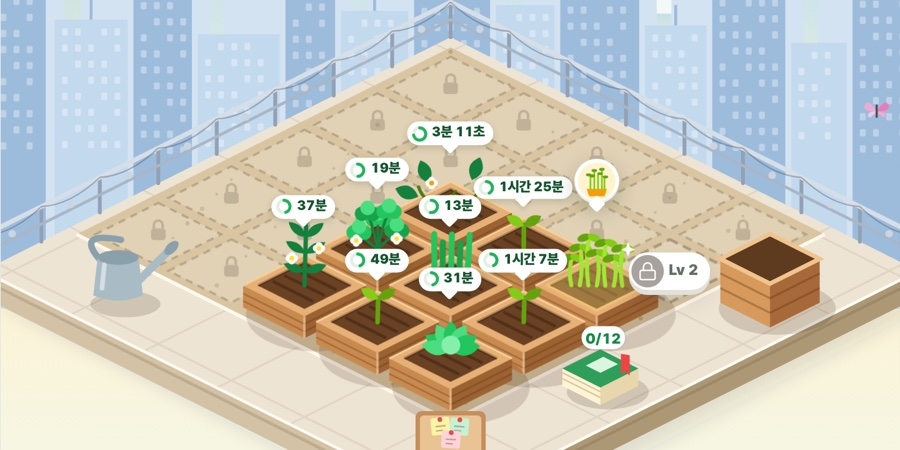
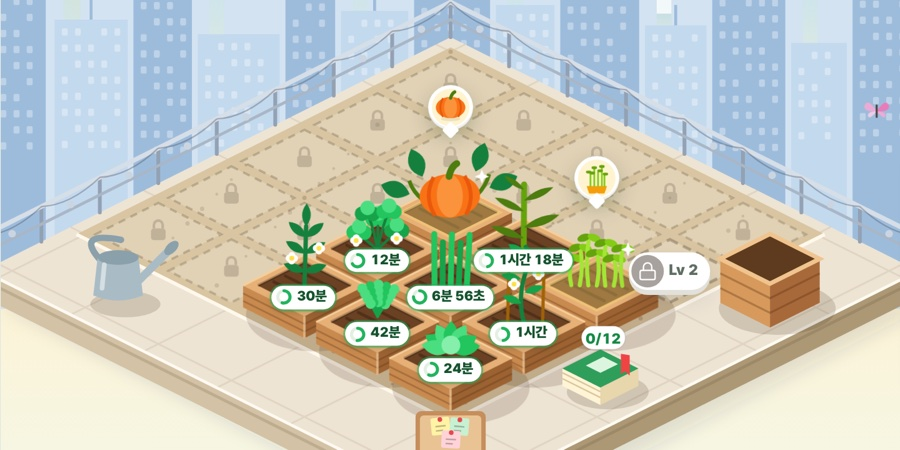
feat: 옥상 텃밭 남은 시간을 각 화단 흙 위에 겹쳐 표시(고리 + 시간 알약), 주문판 다리 짧게, 모두 심기 버튼 줄바꿈 막기, 공지 텃밭 그림 교체

Changed region(s): [[0.28, 0.1867, 0.6844, 0.7778], [0.4356, 0.7778, 0.56, 0.8711], [0.28, 0.4356, 0.3733, 0.4978]]

diff --git a/web/_shared/farm.js b/web/_shared/farm.js
@@ -413,11 +413,11 @@ window.HKFarm = (function () {
     const [x, y] = iso(5.72, 5.72);
     const active = S.orders.filter((o) => o.items).length, ok = S.orders.filter(canDeliver).length;
     let s = `<g class="fm-prop" id="fm-prop-orders" data-act="tab" data-tab="orders" role="button" tabindex="0" aria-label="동료 주문판 — 드릴 수 있는 주문 ${ok}장">${shadowAt(x, y, 26, 8)}`;
-    s += `<g transform="translate(${x} ${y})"><path d="M-16 0 L-12 -40 M16 0 L12 -40" stroke="#8a5a2e" stroke-width="3.4" stroke-linecap="round"/><rect x="-24" y="-60" width="48" height="34" rx="4" fill="#c58e5b"/><rect x="-21" y="-57" width="42" height="28" rx="2.6" fill="#e9c393"/>`;
-    const papers = [["#fff3a6", -14, -54, -6], ["#c8f0d2", 0, -55, 5], ["#ffd3d8", -6, -46, 3]];
+    s += `<g transform="translate(${x} ${y})"><path d="M-16 0 L-13 -20 M16 0 L13 -20" stroke="#8a5a2e" stroke-width="3.4" stroke-linecap="round"/><rect x="-24" y="-40" width="48" height="32" rx="4" fill="#c58e5b"/><rect x="-21" y="-37" width="42" height="26" rx="2.6" fill="#e9c393"/>`;
+    const papers = [["#fff3a6", -14, -35, -6], ["#c8f0d2", 0, -36, 5], ["#ffd3d8", -6, -27, 3]];
     for (let k = 0; k < Math.min(3, active); k++) { const [c, px, py, rot] = papers[k]; s += `<g transform="translate(${px} ${py}) rotate(${rot})"><rect width="13" height="12" rx="1.5" fill="${c}"/><circle cx="6.5" cy="1.4" r="1.6" fill="#e5484d"/><path d="M3 6 h7 M3 9 h5" stroke="rgba(0,0,0,.25)" stroke-width="1"/></g>`; }
     s += `</g>`;
-    if (ok) s += `<g transform="translate(${x + 22} ${y - 62})"><g class="fm-warnbob"><circle r="9" fill="#22b35e" stroke="#fff" stroke-width="2.2"/><text y="3.6" text-anchor="middle" font-size="10.5" font-weight="900" fill="#fff">${ok}</text></g></g>`;
+    if (ok) s += `<g transform="translate(${x + 22} ${y - 42})"><g class="fm-warnbob"><circle r="9" fill="#22b35e" stroke="#fff" stroke-width="2.2"/><text y="3.6" text-anchor="middle" font-size="10.5" font-weight="900" fill="#fff">${ok}</text></g></g>`;
     return s + `</g>`;
   }
 
@@ -1086,7 +1086,7 @@ window.HKFarm = (function () {
         g.setAttribute("aria-label", `${CROP[p.k].n} 자라는 중 — 눌러서 남은 시간 보기`);
         ring = { p: p.p, d: p.d, cd: p.p + p.d, off: f1(100 - Math.min(1, (S.ft - p.p) / p.d) * 100) };
       }
-      g.innerHTML = cellArt(i, cx, cy, st, { auto: S.autos.includes(i), ring, seedN: i });
+      g.innerHTML = cellArt(i, cx, cy, st, { auto: S.autos.includes(i), seedN: i });
       if (old.startsWith("-1:") && sig.startsWith("0:")) { g.classList.add("is-fresh"); setTimeout(() => g.classList.remove("is-fresh"), 600); }
     });
     if (changed) drawOverlay();
@@ -1105,7 +1105,11 @@ window.HKFarm = (function () {
       }
       const p = S.plots[i];
       // 자라는 칸 — 남은 시간을 칸 아래에 바로 보여 준다(맨 위 층이라 앞줄 화단에 가리지 않는다)
-      if (p && p.p + p.d > S.ft) h += `<span class="fm-cdtag" style="${pct(cx, cy + 27)}" data-cd="${p.p + p.d}">${dur(p.p + p.d - S.ft)}</span>`;
+      // 고리 + 시간 알약 — 자기 화단 흙 위(작물 바로 앞)에 겹쳐 올려, 어느 화단의 시간인지 바로 보이게
+      if (p && p.p + p.d > S.ft) {
+        const off = f1(100 - Math.min(1, (S.ft - p.p) / p.d) * 100);
+        h += `<span class="fm-cdtag" style="${pct(cx, cy - BOX.h + 8)}"><svg class="fm-cdtag__ring" viewBox="-8 -8 16 16" aria-hidden="true"><circle r="5.6" fill="none" stroke="#e3efe2" stroke-width="2.8"/><circle r="5.6" fill="none" stroke="#22b35e" stroke-width="2.8" stroke-linecap="round" pathLength="100" stroke-dasharray="100" stroke-dashoffset="${off}" transform="rotate(-90)" data-ring="${p.p}" data-rd="${p.d}"/></svg><b data-cd="${p.p + p.d}">${dur(p.p + p.d - S.ft)}</b></span>`;
+      }
       if (p && p.p + p.d <= S.ft) {
         h += `<button type="button" class="mgx-ready fm-bubble" style="${pct(cx, cy - BOX.h - 56)};animation-delay:-${((n++ * 0.31) % 1.6).toFixed(2)}s" data-act="plot" data-i="${i}" aria-label="${CROP[p.k].n} 거두기"><span>${cropIco(p.k)}</span></button>`;
       }

diff --git a/web/games/farm.html b/web/games/farm.html
@@ -194,13 +194,14 @@
     .fm-chipseed.is-lock svg.fm-ico { filter: grayscale(1) brightness(1.1); opacity: .45; }
     .fm-chipseed:not(.is-lock):active { transform: translateY(2px) scale(.97); box-shadow: 0 1px 0 #dde9dd; }
     .fm-chipseed__x2 { position: absolute; top: -6px; right: -4px; padding: 1px 6px; border-radius: 99px; background: #ffb020; color: #3b2500; font-size: 10.5px; font-weight: 900; box-shadow: 0 2px 0 #d98a00; }
-    .fm-act__btns { display: grid; grid-template-columns: 1.25fr 1fr; gap: 10px; }
+    .fm-act__btns { display: grid; grid-template-columns: 1.15fr 1fr; gap: 10px; }
+    .fm-act__btns .mgx-btn span { white-space: nowrap; }
     .fm-theme .fm-act__btns .mgx-btn { min-height: 58px; padding: 0 12px; gap: 6px; font-size: 16.5px; border-radius: 20px; }
     .fm-act__btns .mgx-btn svg { width: 30px; height: 30px; }
     .fm-act__btns .mgx-btn em { font-style: normal; min-width: 26px; height: 26px; padding: 0 7px; border-radius: 99px; background: rgba(255, 255, 255, .35); font-size: 14px; line-height: 26px; }
     .fm-harvest.is-live { animation: fm-glowbtn 1.8s ease-in-out infinite; }
     @keyframes fm-glowbtn { 50% { box-shadow: 0 4px 0 var(--mg-gold-deep), 0 0 0 6px rgba(255, 190, 60, .28), 0 10px 24px rgba(255, 176, 32, .45); } }
-    @media (max-width: 380px) { .fm-theme .fm-act__btns .mgx-btn { font-size: 15px; padding: 0 8px; } .fm-act__btns .mgx-btn svg { width: 24px; height: 24px; } }
+    @media (max-width: 420px) { .fm-theme .fm-act__btns .mgx-btn { font-size: 15px; padding: 0 8px; gap: 4px; } .fm-act__btns .mgx-btn svg { width: 24px; height: 24px; } }
 
     /* 오늘 카드 */
     .fm-quest { display: grid; grid-template-columns: auto minmax(0, 1fr); gap: 8px; }
@@ -425,8 +426,10 @@
       .fm-butterfly, .fm-birds { display: none; }
     }
     /* 자라는 칸의 남은 시간 — 칸 아래 작은 알약(겹쳐 그리는 층 #fm-overlay) */
-    .fm-cdtag { position: absolute; z-index: 4; transform: translate(-50%, -50%); padding: 2px 7px; border-radius: 999px; background: rgba(255, 255, 255, .92); box-shadow: 0 2px 6px rgba(20, 60, 30, .18); color: #14532d; font-size: 11px; font-weight: 900; line-height: 1.35; letter-spacing: -0.02em; white-space: nowrap; pointer-events: none; font-variant-numeric: tabular-nums; }
-    @media (max-width: 420px) { .fm-cdtag { font-size: 10px; padding: 1px 5px; } }
+    .fm-cdtag { display: inline-flex; align-items: center; gap: 3px; position: absolute; z-index: 4; transform: translate(-50%, -50%); padding: 2px 7px 2px 3px; border-radius: 999px; background: #fff; box-shadow: 0 0 0 1.5px rgba(34, 179, 94, .55), 0 2px 6px rgba(20, 60, 30, .22); color: #14532d; font-size: 11px; font-weight: 900; line-height: 1.35; letter-spacing: -0.02em; white-space: nowrap; pointer-events: none; font-variant-numeric: tabular-nums; }
+    .fm-cdtag__ring { width: 14px; height: 14px; flex: none; }
+    .fm-cdtag b { font-weight: 900; }
+    @media (max-width: 420px) { .fm-cdtag { font-size: 10px; padding: 1px 6px; } .fm-cdtag__ring { display: none; } }
   </style>
 </head>
 <body class="mgx-body">
